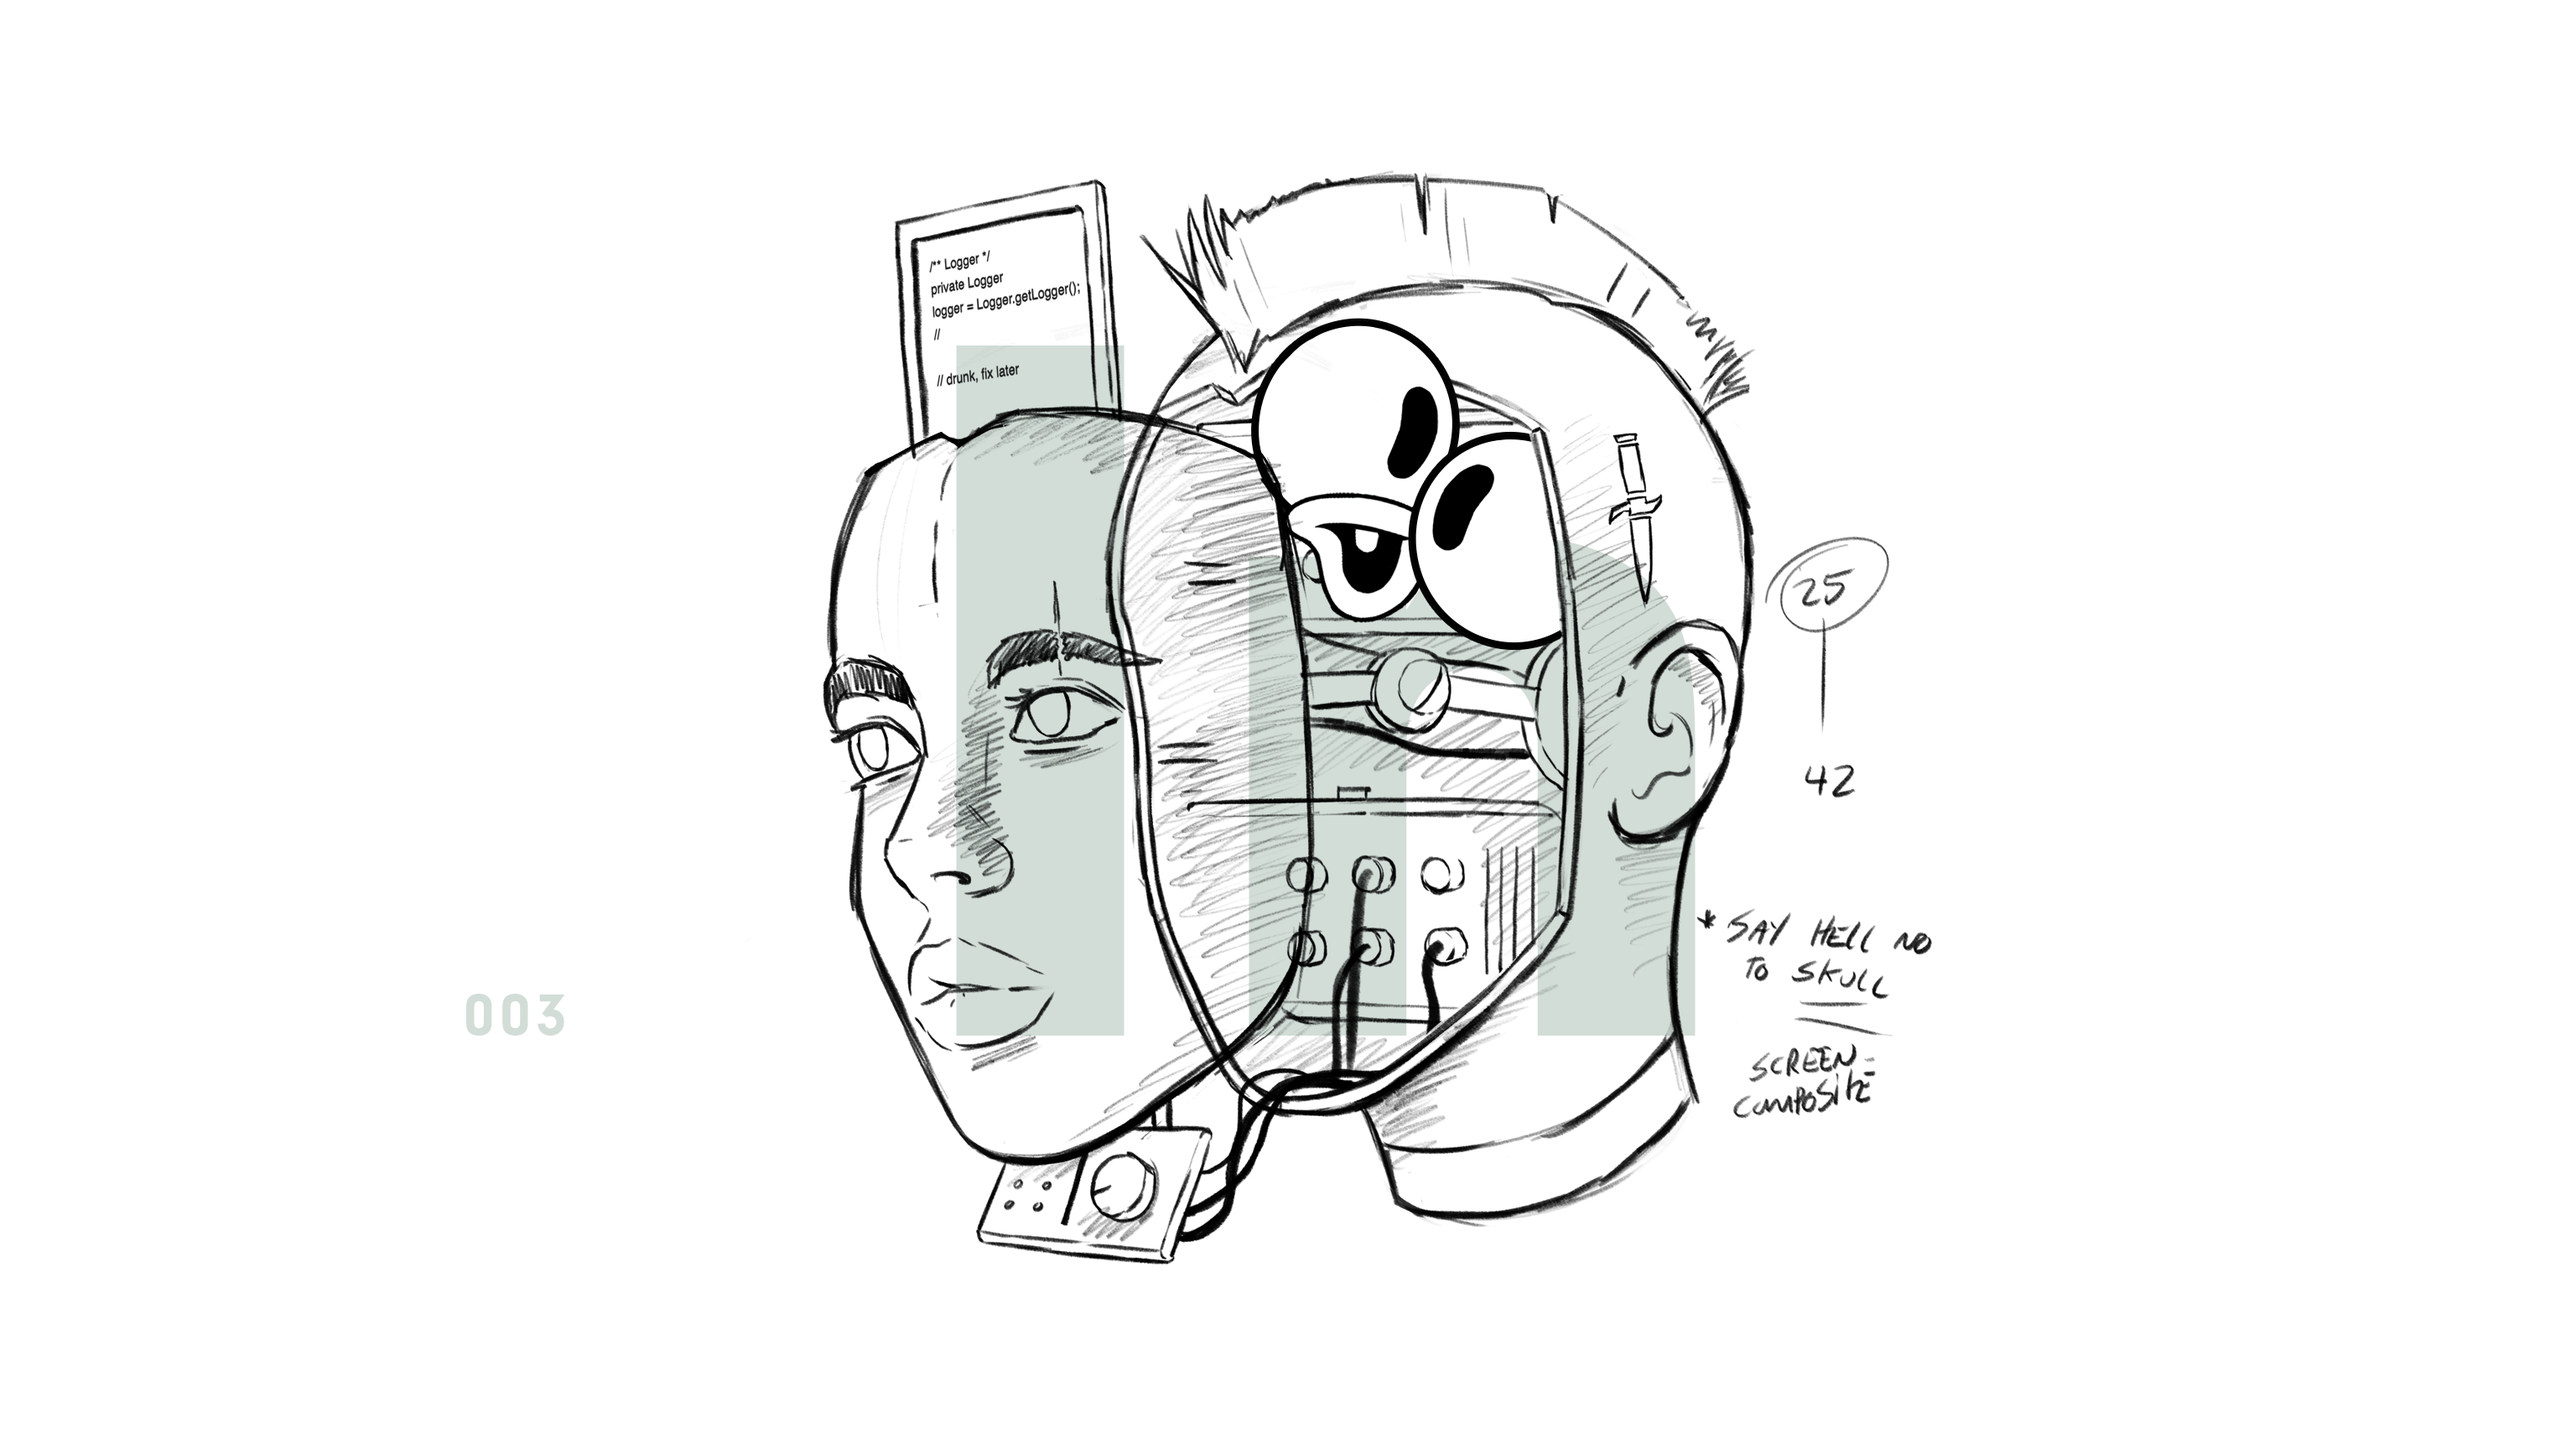
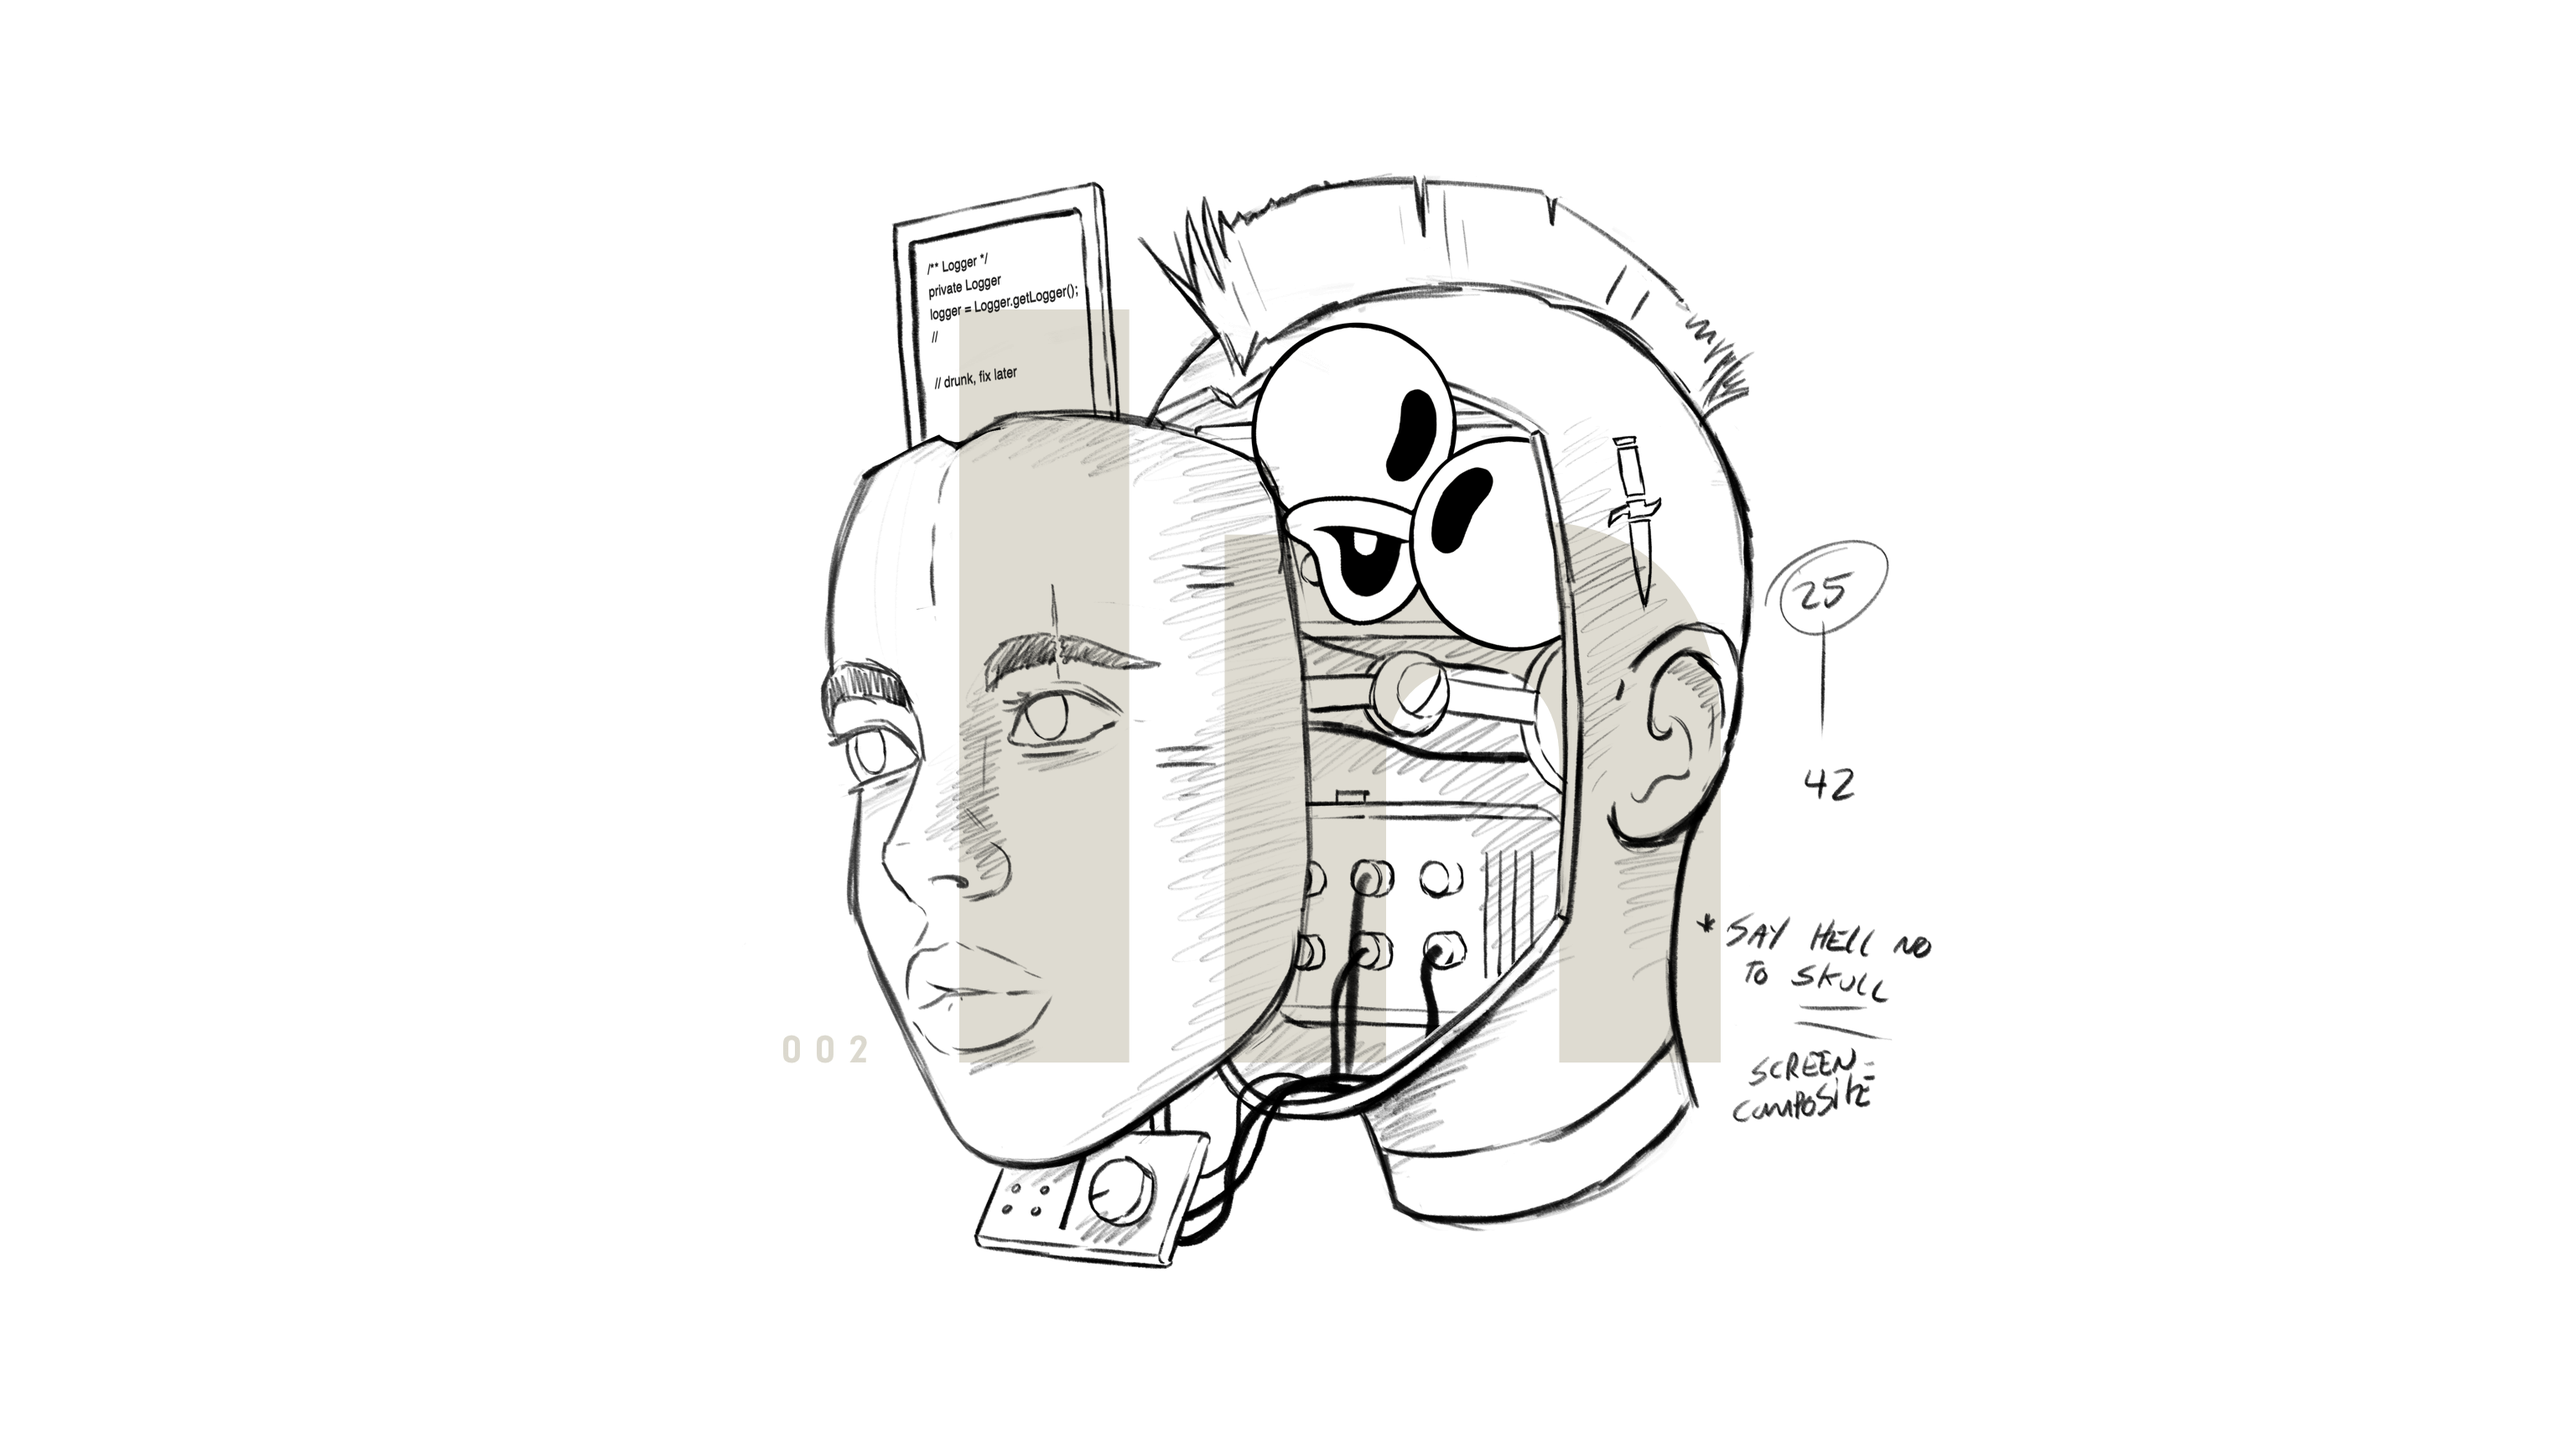
Updating some colors and images, as well as layout on studio

Changed region(s): [[0.3125, 0.0938, 0.75, 0.875], [0.1562, 0.6875, 0.2188, 0.7188]]

diff --git a/src/components/editorial/StudioAboutContent.vue b/src/components/editorial/StudioAboutContent.vue
@@ -77,6 +77,12 @@
             In addition to our content creators, we have a team of UI designers and progressive developers who build everything from micro-sites and installations, to mobile games and brand platforms.
           </div>
         </div>
+
+
+        <div class="studio-wide-block">
+          <h3>Location</h3>
+          <div class="studio-map"></div>
+        </div>
       </div>
     </div>
   </div>
@@ -106,10 +112,10 @@ export default {
       margin-bottom: 0
 
     .studio-narrow-sticky
-      .wide &
-        +respond-to($tablet-landscape)
-        position: sticky
-        top: 20px
+      // .wide &
+      //   +respond-to($tablet-landscape)
+      //   position: sticky
+      //   top: 20px
 
       .studio-narrow-block
         margin-bottom: 50px
@@ -168,17 +174,20 @@ export default {
         +respond-to($tablet-landscape)
           margin-top: -20px
 
-      .studio-img
+      .studio-img,
+      .studio-map
         background: #ddd
         width: 100%
         padding-bottom: 75%
 
-    .block-stagger-right
+      .studio-map
+        +respond-to($tablet-landscape)
+          grid-column: 1 / span 12
 
+    .block-stagger-right
       .studio-img
         +respond-to($tablet-landscape)
           grid-column: 3 / span 9
-
       h3
         +respond-to($tablet-landscape)
           grid-column: 4 / span 8

diff --git a/src/styles/_vars.sass b/src/styles/_vars.sass
@@ -20,7 +20,7 @@ $case_files:           #FCD3BA
 $legwork:              #DDBA4E
 
 // bg updates 5/18
-$grandpas-office:      #F5F4EB
+$grandpas-office:      #F8F7F3
 $crunchy-mustard:      #E9C967
 $tender-belly:         #FBE8DD
 
